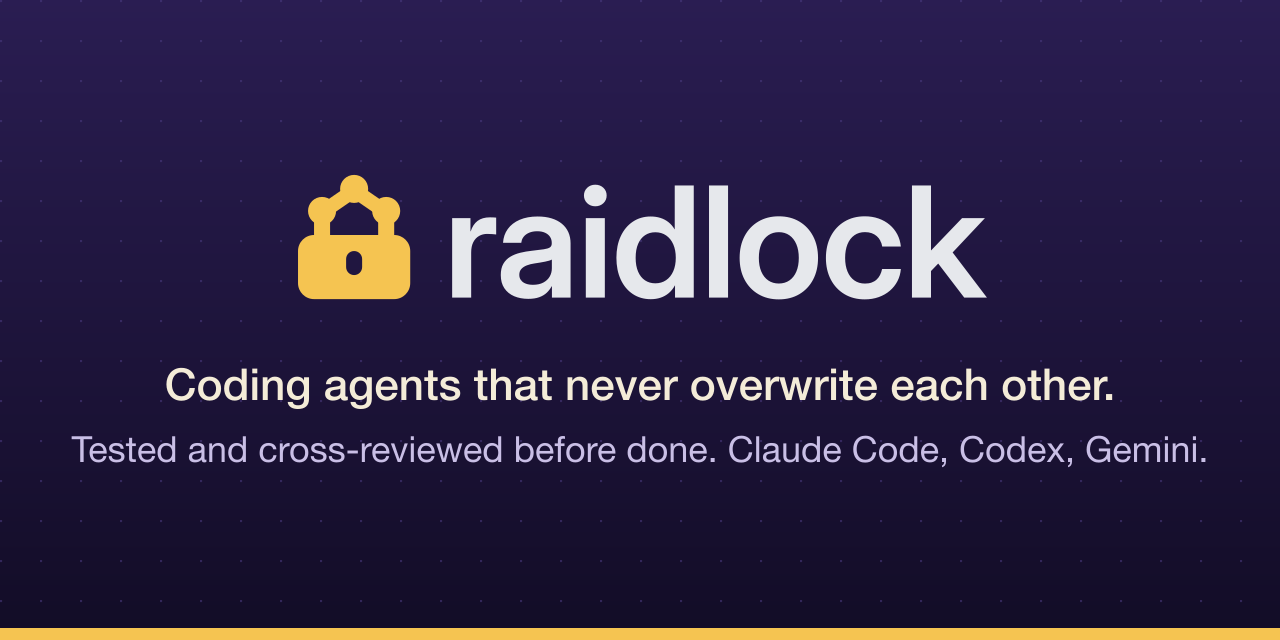
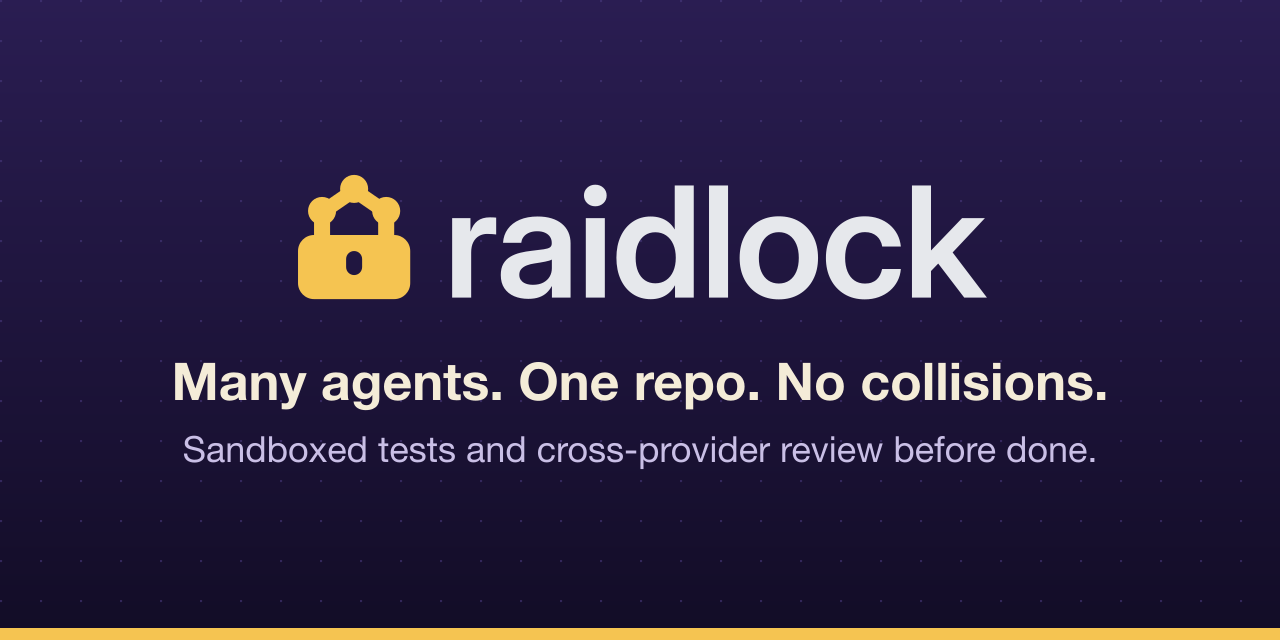
docs: headline Many agents. One repo. No collisions. (#19)
## What
Short headline plus a supporting line in the README; the social preview
uses the same headline.

## How to verify
Read the README top and docs/assets/brand/social-preview.png.

## Checklist
- [x] Conventional Commits title
- [x] Signed off
- [x] Docs only

---------

Changed region(s): [[0.125, 0.5625, 0.875, 0.6562], [0.0625, 0.6875, 0.9375, 0.75]]

diff --git a/README.md b/README.md
@@ -5,7 +5,9 @@
   </picture>
 </p>
 
-<p align="center"><b>raidlock stops parallel coding agents from overwriting each other's files, across Claude Code, Codex and Gemini, and won't accept their work until the tests pass and an agent from another provider signs off.</b></p>
+<h3 align="center">Many agents. One repo. No collisions.</h3>
+
+<p align="center">raidlock locks the files each agent may change, enforces it at edit time across Claude Code, Codex and Gemini, and accepts work only after the tests pass in a sandbox and another provider reviews it.</p>
 
 <p align="center">
   <a href="https://github.com/agi1clj/raidlock/actions/workflows/ci.yml"><img src="https://github.com/agi1clj/raidlock/actions/workflows/ci.yml/badge.svg?branch=main" alt="CI"></a>
